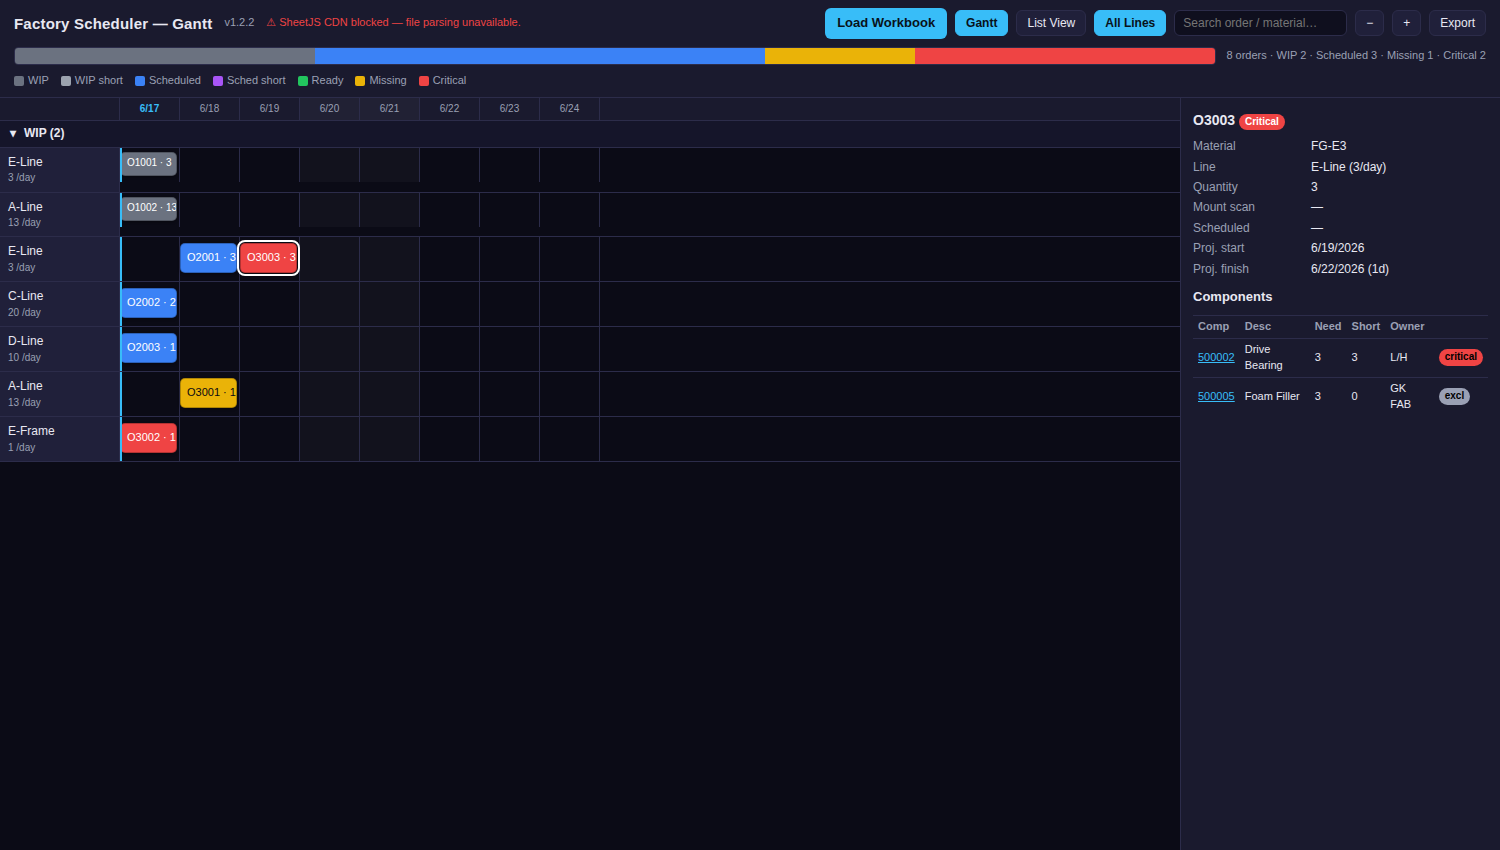
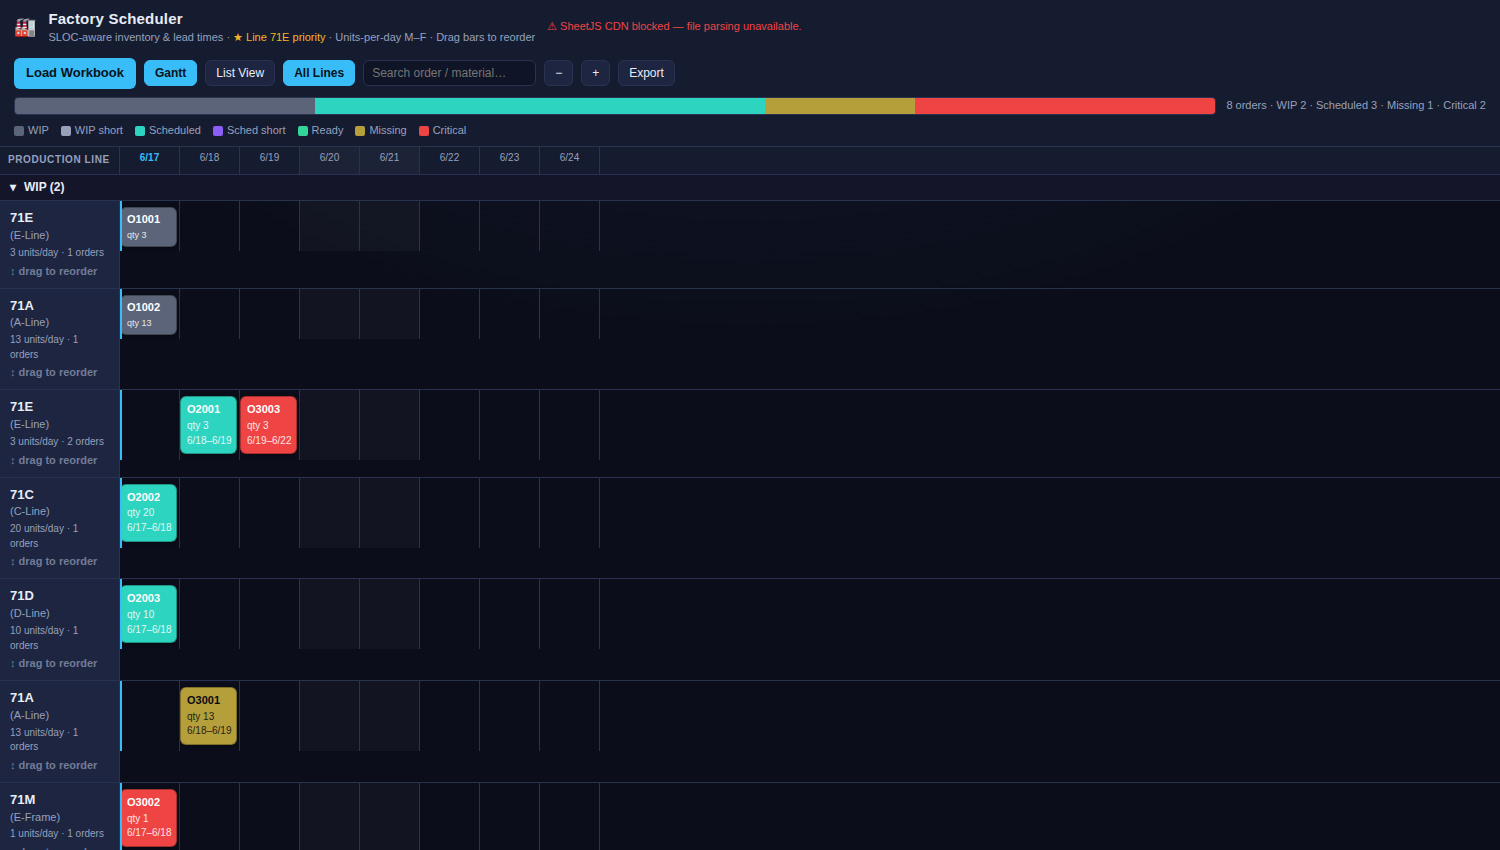
Restyle UI to match the reference app
Aligns the look with the existing app screenshots:

- Splash screen: centered factory mark, tagline (gold "★ Line 71E priority",
  "All lines start from today"), document icon and "Drop Excel file here or
  click to browse" call-to-action with the required-tabs hint.
- Header: compact title + tagline; "PRODUCTION LINE" lane-column header.
- Lanes labeled "71A (A-Line)" (MRP controller + line) with capacity, order
  count, and a reorder affordance; grouped by MRP controller.
- Taller multi-line order bars (id, qty, projected date range).
- Palette shifted to teal (scheduled) / olive (missing) / purple / gray / red
  with a gold accent.
- Order detail moved from a side panel to a centered modal with an
  "Inventory Log" table (Component, Description, Need, Avail, Proc, Owner,
  Lead, Status); component rows still open the per-SLOC component modal.

Logic unchanged; all 15 headless assertions still pass. Refreshed screenshots.

Claude-Session: https://claude.ai/code/session_01LCBZcD5ejh8TAm1FMa6gMf

diff --git a/index.html b/index.html
@@ -11,26 +11,29 @@
   /* Explicit colors only — no reliance on an external theme so the app renders
      identically in sandboxed / embedded contexts. */
   :root {
-    --bg: #0b0b16;
-    --surface: #1a1a2e;
-    --surface-2: #20203a;
-    --lane: #0f0f1e;
-    --border: #2c2c4a;
-    --text: #e8e8f2;
-    --muted: #9aa0b4;
-    --gray-dark: #6b7280;   /* WIP active */
-    --gray-light: #9ca3af;  /* WIP missing components */
-    --green: #22c55e;       /* ready / fully covered */
-    --yellow: #eab308;      /* missing non-critical */
+    --bg: #0b0e1a;
+    --bg2: #131a2e;
+    --surface: #161c30;
+    --surface-2: #1d2540;
+    --lane: #0f1426;
+    --border: #2a3252;
+    --text: #e8ecf6;
+    --muted: #97a0bd;
+    --gold: #f0b429;        /* priority / call-to-action accent */
+    --gray-dark: #5b6478;   /* WIP active */
+    --gray-light: #98a1b8;  /* WIP missing components */
+    --green: #34d399;       /* ready / fully covered */
+    --yellow: #b59f3b;      /* missing non-critical (olive) */
     --red: #ef4444;         /* critical shortage */
-    --blue: #3b82f6;        /* scheduled, covered */
-    --purple: #a855f7;      /* scheduled, deficit */
+    --blue: #2dd4bf;        /* scheduled, covered (teal) */
+    --purple: #8b5cf6;      /* scheduled, deficit */
     --accent: #38bdf8;
   }
   * { box-sizing: border-box; }
   html, body { margin: 0; height: 100%; }
   body {
-    background: var(--bg); color: var(--text);
+    background: radial-gradient(1200px 700px at 50% -10%, var(--bg2), var(--bg) 60%);
+    color: var(--text);
     font: 13px/1.45 -apple-system, BlinkMacSystemFont, "Segoe UI", Roboto, Helvetica, Arial, sans-serif;
     display: flex; flex-direction: column; height: 100vh; overflow: hidden;
   }
@@ -70,13 +73,19 @@
   /* Main layout */
   .main { flex: 1 1 auto; display: flex; min-height: 0; }
   .view { flex: 1 1 auto; overflow: auto; position: relative; }
-  .side { flex: 0 0 320px; border-left: 1px solid var(--border); background: var(--surface); overflow: auto; padding: 12px; }
-  .side.hidden { display: none; }
 
-  /* Drop zone */
-  #drop { position: absolute; inset: 0; display: flex; align-items: center; justify-content: center; flex-direction: column; gap: 10px; color: var(--muted); text-align: center; padding: 40px; }
-  #drop.dragover { background: rgba(56,189,248,.08); outline: 2px dashed var(--accent); outline-offset: -12px; }
-  #drop h2 { color: var(--text); font-weight: 600; }
+  /* Splash / drop zone */
+  #drop { position: absolute; inset: 0; display: flex; align-items: center; justify-content: center; flex-direction: column; gap: 6px; color: var(--muted); text-align: center; padding: 40px; }
+  #drop.dragover { background: rgba(240,180,41,.06); outline: 2px dashed var(--gold); outline-offset: -16px; }
+  #drop .emoji { font-size: 46px; line-height: 1; margin-bottom: 6px; filter: drop-shadow(0 4px 10px rgba(0,0,0,.5)); }
+  #drop h2 { color: var(--text); font-weight: 700; font-size: 30px; margin: 0; letter-spacing: .3px; }
+  #drop .tag { color: var(--muted); font-size: 13px; max-width: 560px; }
+  #drop .tag .gold { color: var(--gold); font-weight: 600; }
+  #drop .dropbox { margin-top: 34px; cursor: pointer; display: flex; flex-direction: column; align-items: center; gap: 8px; padding: 22px 40px; border-radius: 12px; }
+  #drop .dropbox:hover { background: rgba(240,180,41,.05); }
+  #drop .doc { font-size: 40px; line-height: 1; }
+  #drop .cta { color: var(--gold); font-weight: 700; font-size: 15px; }
+  #drop .req { color: var(--muted); font-size: 11px; max-width: 420px; }
 
   /* Gantt */
   .gantt { position: relative; min-width: max-content; }
@@ -85,20 +94,26 @@
   .daycell { flex: 0 0 auto; border-right: 1px solid var(--border); text-align: center; font-size: 10px; color: var(--muted); padding: 4px 0; }
   .daycell.weekend { background: rgba(255,255,255,.03); }
   .daycell.today { color: var(--accent); font-weight: 700; }
+  .timeaxis .corner .pl { padding: 6px 8px; font-size: 10px; font-weight: 700; letter-spacing: .6px; color: var(--muted); }
   .lane { display: flex; border-bottom: 1px solid var(--border); position: relative; }
-  .lane .lanehdr { position: sticky; left: 0; z-index: 4; width: 120px; flex: 0 0 120px; background: var(--surface-2); border-right: 1px solid var(--border); padding: 6px 8px; font-size: 12px; }
-  .lane .lanehdr .cap { color: var(--muted); font-size: 10px; }
+  .lane .lanehdr { position: sticky; left: 0; z-index: 4; width: 120px; flex: 0 0 120px; background: var(--surface-2); border-right: 1px solid var(--border); padding: 8px 10px; font-size: 13px; font-weight: 600; display: flex; flex-direction: column; justify-content: center; }
+  .lane .lanehdr .line { font-size: 11px; color: var(--muted); font-weight: 500; }
+  .lane .lanehdr .cap { color: var(--muted); font-size: 10px; font-weight: 400; margin-top: 2px; }
+  .lane .lanehdr .sort { color: var(--muted); font-size: 11px; margin-top: 3px; opacity: .7; }
   .lane .track { position: relative; flex: 1 1 auto; }
   .grid { position: absolute; inset: 0; pointer-events: none; }
   .grid .gcol { position: absolute; top: 0; bottom: 0; border-right: 1px solid var(--border); }
   .grid .gcol.weekend { background: rgba(255,255,255,.03); }
   .todayline { position: absolute; top: 0; bottom: 0; width: 2px; background: var(--accent); z-index: 3; }
   .bar {
-    position: absolute; height: 30px; border-radius: 5px; color: #0a0a12; font-size: 11px;
-    padding: 0 6px; display: flex; align-items: center; overflow: hidden; white-space: nowrap;
-    cursor: grab; border: 1px solid rgba(0,0,0,.25); box-shadow: 0 1px 3px rgba(0,0,0,.4);
+    position: absolute; height: 58px; border-radius: 6px; color: #0a0a12; font-size: 10px;
+    padding: 4px 6px; display: flex; flex-direction: column; justify-content: center; gap: 1px;
+    overflow: hidden; white-space: nowrap;
+    cursor: grab; border: 1px solid rgba(0,0,0,.3); box-shadow: 0 1px 4px rgba(0,0,0,.45);
   }
-  .bar.selected { outline: 2px solid #fff; outline-offset: 1px; z-index: 4; }
+  .bar .b-id { font-weight: 700; font-size: 11px; }
+  .bar .b-sub { opacity: .85; }
+  .bar.selected { outline: 2px solid var(--gold); outline-offset: 1px; z-index: 4; }
   .bar.dragging { opacity: .5; }
   .bar.ripple-worse { animation: flashRed 1.2s ease-out; }
   .bar.ripple-better { animation: flashGreen 1.2s ease-out; }
@@ -111,7 +126,7 @@
   .secthead { position: sticky; left: 0; z-index: 4; display: flex; align-items: center; gap: 8px; background: #15152a; padding: 4px 10px; border-bottom: 1px solid var(--border); font-size: 12px; font-weight: 600; cursor: pointer; }
   .secthead .chev { transition: transform .15s; }
   .secthead.collapsed .chev { transform: rotate(-90deg); }
-  .bar.wip { height: 24px; font-size: 10px; }
+  .bar.wip { height: 40px; font-size: 9px; }
 
   /* status colors */
   .c-gray-dark { background: var(--gray-dark); color: #fff; }
@@ -136,9 +151,8 @@
   .swatch { display: inline-block; width: 10px; height: 10px; border-radius: 2px; margin-right: 6px; vertical-align: middle; }
 
   /* Detail panel */
-  .side h3 { margin: 0 0 8px; font-size: 14px; }
-  .side .kv { display: grid; grid-template-columns: 110px 1fr; gap: 3px 8px; font-size: 12px; margin-bottom: 10px; }
-  .side .kv .k { color: var(--muted); }
+  .kv { display: grid; grid-template-columns: 110px 1fr; gap: 4px 10px; font-size: 12px; margin-bottom: 12px; }
+  .kv .k { color: var(--muted); }
   .shorttbl { width: 100%; border-collapse: collapse; font-size: 11px; }
   .shorttbl th, .shorttbl td { padding: 3px 5px; border-top: 1px solid var(--border); text-align: left; }
   .shorttbl th { color: var(--muted); }
@@ -149,6 +163,7 @@
   .modal-bg { position: fixed; inset: 0; background: rgba(0,0,0,.6); display: flex; align-items: center; justify-content: center; z-index: 50; }
   .modal-bg.hidden { display: none; }
   .modal { background: var(--surface); border: 1px solid var(--border); border-radius: 10px; max-width: 720px; width: 90%; max-height: 80vh; overflow: auto; padding: 18px; }
+  #orderModal .modal { max-width: 900px; }
   .modal h2 { margin: 0 0 12px; font-size: 16px; }
   .modal .cols { display: flex; gap: 16px; }
   .modal .col { flex: 1 1 0; }
@@ -169,8 +184,11 @@
 <body>
 <header class="app">
   <div class="titlebar">
-    <h1>Factory Scheduler — Gantt</h1>
-    <span class="ver">v1.2.2</span>
+    <span style="font-size:18px">🏭</span>
+    <div>
+      <h1>Factory Scheduler</h1>
+      <div class="ver">SLOC-aware inventory &amp; lead times · <span style="color:var(--gold)">★ Line 71E priority</span> · Units-per-day M–F · Drag bars to reorder</div>
+    </div>
     <span id="cdnwarn" class="nofile" style="color:var(--red);display:none;">⚠ SheetJS CDN blocked — file parsing unavailable.</span>
     <div class="spacer"></div>
     <div class="toolbar">
@@ -194,13 +212,24 @@
 <div class="main">
   <div class="view" id="view">
     <div id="drop">
-      <h2>Drop your production workbook here</h2>
-      <div>or use <b>Load Workbook</b> above. Expected tabs: Orders, BOM, On Hand, Units Per Day, Shifts, Component Exclusions, SLOC Lead Times, Critical Components, Master Data.</div>
+      <div class="emoji">🏭</div>
+      <h2>Factory Scheduler</h2>
+      <div class="tag">Gantt chart view with SLOC-aware inventory &amp; lead times.</div>
+      <div class="tag"><span class="gold">★ Line 71E priority</span> on date ties · Units-per-day scheduling M–F</div>
+      <div class="tag gold">· All lines start from today.</div>
+      <div class="dropbox" id="dropbox">
+        <div class="doc">📄</div>
+        <div class="cta">Drop Excel file here or click to browse</div>
+        <div class="req">Required: Orders, Units Per Day, BOM, On Hand, SLOC Lead Times, Critical Components</div>
+      </div>
     </div>
     <div id="gantt" class="gantt" style="display:none;"></div>
     <div id="list" class="listview" style="display:none;"></div>
   </div>
-  <aside class="side hidden" id="side"></aside>
+</div>
+
+<div id="orderModal" class="modal-bg hidden">
+  <div class="modal" id="orderModalBody"></div>
 </div>
 
 <div id="validationModal" class="modal-bg hidden">
@@ -622,12 +651,10 @@ function recompute(){
 
 function render(){
   document.getElementById('drop').style.display = 'none';
-  document.getElementById('side').classList.toggle('hidden', !selectedOrderId);
   renderSummary();
   document.getElementById('gantt').style.display = listView ? 'none' : 'block';
   document.getElementById('list').style.display = listView ? 'block' : 'none';
   if (listView) renderListView(); else renderGantt();
-  if (selectedOrderId) renderDetail(selectedOrderId);
 }
 
 function visibleOrders(){
@@ -682,18 +709,18 @@ function renderGantt(){
   const trackW = days.length * dayWidth;
 
   // time axis
-  let html = `<div class="timeaxis"><div class="corner"></div>` +
+  let html = `<div class="timeaxis"><div class="corner"><div class="pl">PRODUCTION LINE</div></div>` +
     days.map(d => `<div class="daycell ${isWeekend(d)?'weekend':''} ${+startOfDay(d)===+TODAY?'today':''}" style="width:${dayWidth}px">${fmtDate(d)}</div>`).join('') +
     `</div>`;
 
   // WIP collapsible section
   html += `<div class="secthead ${wipExpanded?'':'collapsed'}" id="wiphead"><span class="chev">▾</span> WIP (${wip.length})</div>`;
   if (wipExpanded){
-    html += renderLanes(groupByLine(wip), days, trackW, true);
+    html += renderLanes(groupByMrp(wip), days, trackW, true);
   }
 
-  // main lanes grouped by line
-  html += renderLanes(groupByLine(main), days, trackW, false);
+  // main lanes grouped by MRP controller / line
+  html += renderLanes(groupByMrp(main), days, trackW, false);
   g.innerHTML = html;
 
   // grid + bars positioning is inline; wire events
@@ -702,36 +729,41 @@ function renderGantt(){
   setupGanttDrag(g, days);
 }
 
-function groupByLine(orders){
+function groupByMrp(orders){
+  // Group by MRP controller (e.g. 71A) so lanes read "71A (A-Line)".
   const m = new Map();
-  orders.forEach(o => { if (!m.has(o.line)) m.set(o.line, []); m.get(o.line).push(o); });
+  orders.forEach(o => { const k = o.mrp || o.line; if (!m.has(k)) m.set(k, []); m.get(k).push(o); });
   return m;
 }
 
 function renderLanes(grouped, days, trackW, isWip){
   const min = days[0];
+  const laneH = isWip ? 50 : 70;
   let html = '';
-  for (const [line, orders] of grouped){
+  for (const [mrp, orders] of grouped){
+    const line = orders[0] ? orders[0].line : mrp;
     const cap = orders[0] ? orders[0].unitsPerDay : '';
+    const label = (line && line !== mrp) ? `${esc(mrp)} <span class="line">(${esc(line)})</span>` : esc(mrp);
     const gridCols = days.map((d,i) => `<div class="gcol ${isWeekend(d)?'weekend':''}" style="left:${i*dayWidth}px;width:${dayWidth}px"></div>`).join('');
     const todayIdx = days.findIndex(d => +startOfDay(d) === +TODAY);
     const todayLine = todayIdx>=0 ? `<div class="todayline" style="left:${todayIdx*dayWidth}px"></div>` : '';
     const bars = orders.map(o => {
       const offset = workingDaysBetween(min, o.projStart);
       const left = offset * dayWidth;
-      const w = Math.max(dayWidth*0.6, (o.projDays||1) * dayWidth - 3);
+      const w = Math.max(dayWidth*0.7, (o.projDays||1) * dayWidth - 3);
       const dim = !matchesSearch(o) ? 'dim' : '';
       const sel = o.id === selectedOrderId ? 'selected' : '';
+      const sub = isWip ? `qty ${o.qty}` : `qty ${o.qty}<br>${fmtDate(o.projStart)}–${fmtDate(o.projFinish)}`;
       return `<div class="bar c-${o.status} ${isWip?'wip':''} ${dim} ${sel}" draggable="true" data-id="${esc(o.id)}"
-        style="left:${left}px;width:${w}px;top:${isWip?4:6}px">${esc(o.id)} · ${o.qty}</div>`;
+        style="left:${left}px;width:${w}px;top:6px"><span class="b-id">${esc(o.id)}</span><span class="b-sub">${sub}</span></div>`;
     }).join('');
     html += `<div class="lane ${isWip?'wipsection':''}">
-      <div class="lanehdr">${esc(line)}<div class="cap">${cap} /day</div></div>
-      <div class="track" style="width:${trackW}px;height:${isWip?34:44}px">
+      <div class="lanehdr">${label}<div class="cap">${cap} units/day · ${orders.length} orders</div><div class="sort">↕ drag to reorder</div></div>
+      <div class="track" style="width:${trackW}px;height:${laneH}px">
         <div class="grid">${gridCols}${todayLine}</div>${bars}
       </div></div>`;
   }
-  if (!grouped.size) html += `<div class="lane"><div class="lanehdr"> </div><div class="track" style="width:${trackW}px;height:30px"></div></div>`;
+  if (!grouped.size) html += `<div class="lane"><div class="lanehdr"> </div><div class="track" style="width:${trackW}px;height:40px"></div></div>`;
   return html;
 }
 
@@ -742,7 +774,7 @@ function setupBarEvents(bar){
   bar.addEventListener('mousemove', (e) => showTip(e, id));
   bar.addEventListener('mouseleave', hideTip);
 }
-function selectOrder(id){ selectedOrderId = id; render(); }
+function selectOrder(id){ selectedOrderId = id; render(); renderOrderModal(id); }
 
 let dragId = null;
 function setupGanttDrag(container, days){
@@ -795,34 +827,39 @@ function showTip(e, id){
 }
 function hideTip(){ document.getElementById('tip').style.display = 'none'; }
 
-/* ---------------- Detail panel ---------------- */
-function renderDetail(id){
+/* ---------------- Order detail modal ---------------- */
+function renderOrderModal(id){
   const o = displayOrders.find(x => x.id === id);
-  const side = document.getElementById('side');
-  if (!o){ side.classList.add('hidden'); return; }
-  side.classList.remove('hidden');
-  const shortRows = (o.components||[]).map(c => {
-    const tag = c.excluded ? `<span class="pill" style="background:var(--muted);color:#000">excl</span>`
-      : c.deficit>0 ? `<span class="pill" style="background:${c.critical?'var(--red)':'var(--yellow)'};color:#000">${c.critical?'critical':'short'}</span>`
+  if (!o) return;
+  const rows = (o.components||[]).map(c => {
+    const avail = (model.avail[c.component] || 0);
+    const lead = Math.max(0, ...((model.onHandDetail[c.component]||[{leadTime:0}]).map(d=>d.leadTime)));
+    const tag = c.excluded ? `<span class="pill" style="background:var(--muted);color:#000">excluded</span>`
+      : c.deficit>0 ? `<span class="pill" style="background:${c.critical?'var(--red)':'var(--yellow)'};color:#000">${c.critical?'critical':'short '+c.deficit}</span>`
       : `<span class="pill" style="background:var(--green);color:#000">ok</span>`;
     return `<tr><td><span class="comp-link" data-comp="${esc(c.component)}">${esc(c.component)}</span></td>
-      <td>${esc(c.desc||'')}</td><td>${c.need}</td><td>${c.deficit||0}</td><td>${esc(c.owner||'')}</td><td>${tag}</td></tr>`;
+      <td>${esc(c.desc||'')}</td><td style="text-align:right">${c.need}</td><td style="text-align:right">${avail}</td>
+      <td>${esc(c.procType||'')}</td><td>${esc(c.owner||'')}</td><td>${lead}d</td><td>${tag}</td></tr>`;
   }).join('');
-  side.innerHTML = `
-    <h3>${esc(o.id)} <span class="pill c-${o.status}">${STATUS_LABEL[o.status]}</span></h3>
-    <div class="kv">
+  const body = document.getElementById('orderModalBody');
+  body.innerHTML = `
+    <h2>${esc(o.id)} <span class="pill c-${o.status}">${STATUS_LABEL[o.status]}</span></h2>
+    <div class="kv" style="grid-template-columns:120px 1fr 120px 1fr">
       <div class="k">Material</div><div>${esc(o.material||'')}</div>
-      <div class="k">Line</div><div>${esc(o.line)} (${o.unitsPerDay}/day)</div>
+      <div class="k">Line</div><div>${esc(o.mrp)} (${esc(o.line)}) · ${o.unitsPerDay}/day</div>
       <div class="k">Quantity</div><div>${o.qty}</div>
       <div class="k">Mount scan</div><div>${o.scan?fmtDateY(o.scan):'—'}</div>
       <div class="k">Scheduled</div><div>${o.scheduled?fmtDateY(o.scheduled):'—'}</div>
+      <div class="k">Basic start/fin</div><div>${o.bscStart?fmtDateY(o.bscStart):'—'} / ${o.bscFin?fmtDateY(o.bscFin):'—'}</div>
       <div class="k">Proj. start</div><div>${fmtDateY(o.projStart)}</div>
       <div class="k">Proj. finish</div><div>${fmtDateY(o.projFinish)} (${o.projDays}d)</div>
     </div>
-    <h3 style="font-size:13px">Components</h3>
-    <table class="shorttbl"><tr><th>Comp</th><th>Desc</th><th>Need</th><th>Short</th><th>Owner</th><th></th></tr>${shortRows||'<tr><td colspan=6>No BOM</td></tr>'}</table>
-  `;
-  side.querySelectorAll('.comp-link').forEach(el => el.onclick = () => showCompModal(el.dataset.comp));
+    <h4 style="margin:6px 0">Inventory Log</h4>
+    <table class="shorttbl"><tr><th>Component</th><th>Description</th><th>Need</th><th>Avail</th><th>Proc</th><th>Owner</th><th>Lead</th><th>Status</th></tr>
+      ${rows||'<tr><td colspan=8>No BOM</td></tr>'}</table>
+    <div class="actions"><button onclick="document.getElementById('orderModal').classList.add('hidden')">Close</button></div>`;
+  body.querySelectorAll('.comp-link').forEach(el => el.onclick = () => showCompModal(el.dataset.comp));
+  document.getElementById('orderModal').classList.remove('hidden');
 }
 
 /* ---------------- Component modal ---------------- */
@@ -962,7 +999,9 @@ function setZoom(delta){ dayWidth = Math.max(30, Math.min(200, dayWidth + delta)
 
 window.addEventListener('DOMContentLoaded', () => {
   if (typeof XLSX === 'undefined') document.getElementById('cdnwarn').style.display = 'inline';
-  document.getElementById('fileInput').addEventListener('change', e => { if (e.target.files[0]) handleFile(e.target.files[0]); });
+  const fileInput = document.getElementById('fileInput');
+  fileInput.addEventListener('change', e => { if (e.target.files[0]) handleFile(e.target.files[0]); });
+  document.getElementById('dropbox').addEventListener('click', () => fileInput.click());
   const drop = document.getElementById('drop'), view = document.getElementById('view');
   ['dragenter','dragover'].forEach(ev => view.addEventListener(ev, e => { e.preventDefault(); drop.classList.add('dragover'); }));
   ['dragleave','drop'].forEach(ev => view.addEventListener(ev, e => { e.preventDefault(); drop.classList.remove('dragover'); }));
@@ -979,6 +1018,7 @@ window.addEventListener('DOMContentLoaded', () => {
   document.getElementById('vCancel').onclick = closeValidation;
   document.getElementById('vProceed').onclick = () => { if (pendingProceed) pendingProceed(); };
   document.getElementById('compModal').addEventListener('click', e => { if (e.target.id==='compModal') e.target.classList.add('hidden'); });
+  document.getElementById('orderModal').addEventListener('click', e => { if (e.target.id==='orderModal') e.target.classList.add('hidden'); });
 
   // test hook
   window.__app = { loadArrayBuffer, get model(){return model;}, get displayOrders(){return displayOrders;}, exportExcel, buildExportWorkbook, recompute, selectOrder, reorder };
